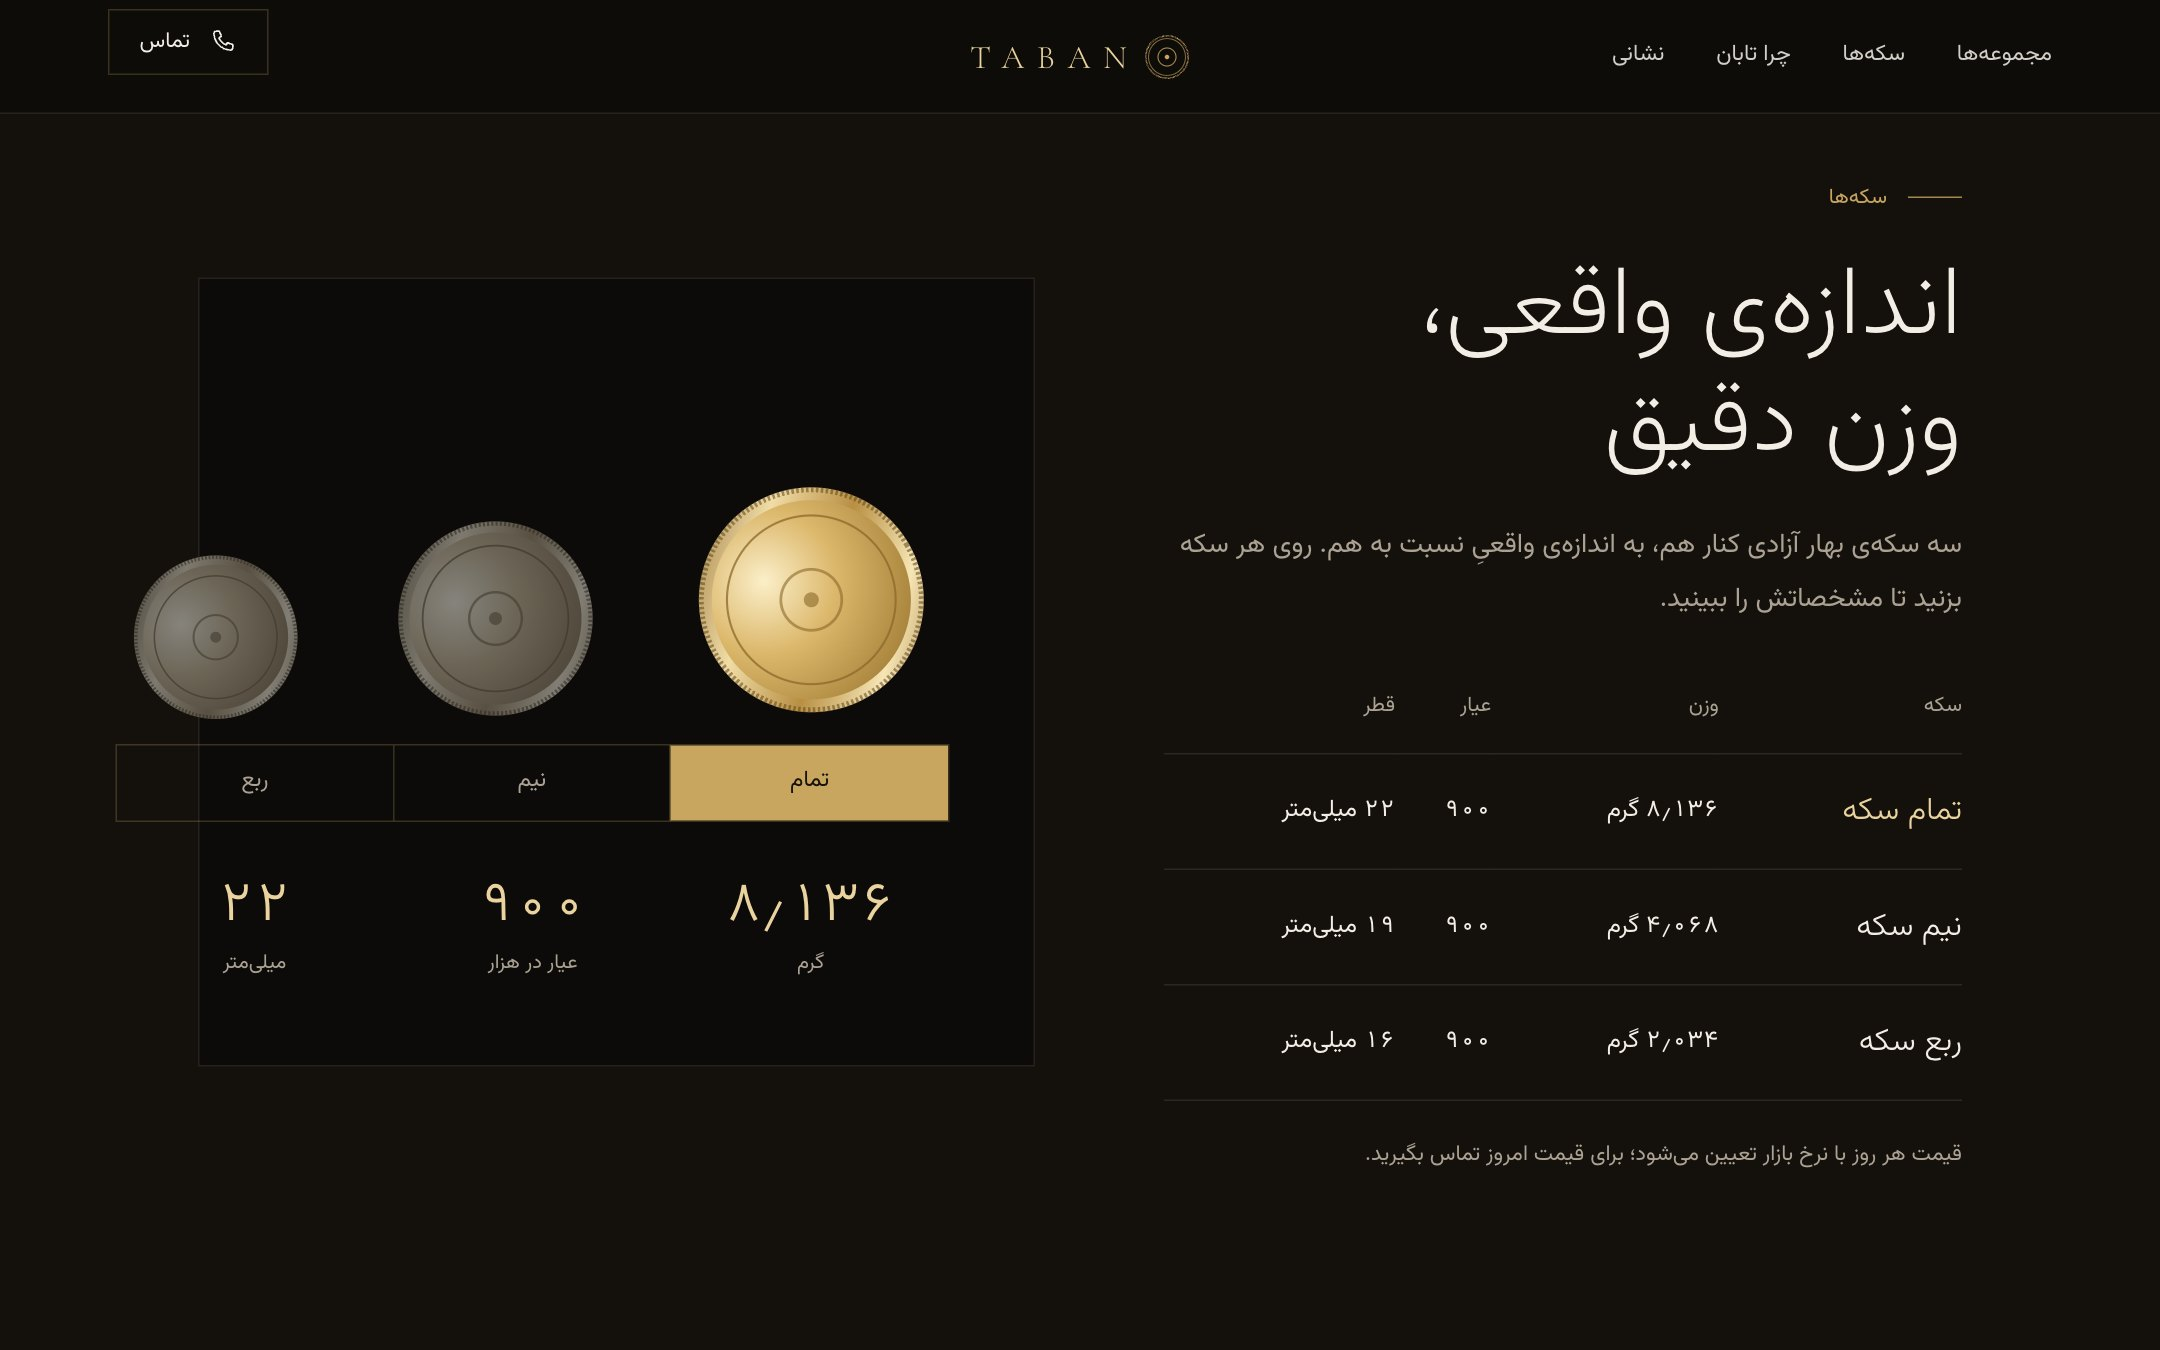
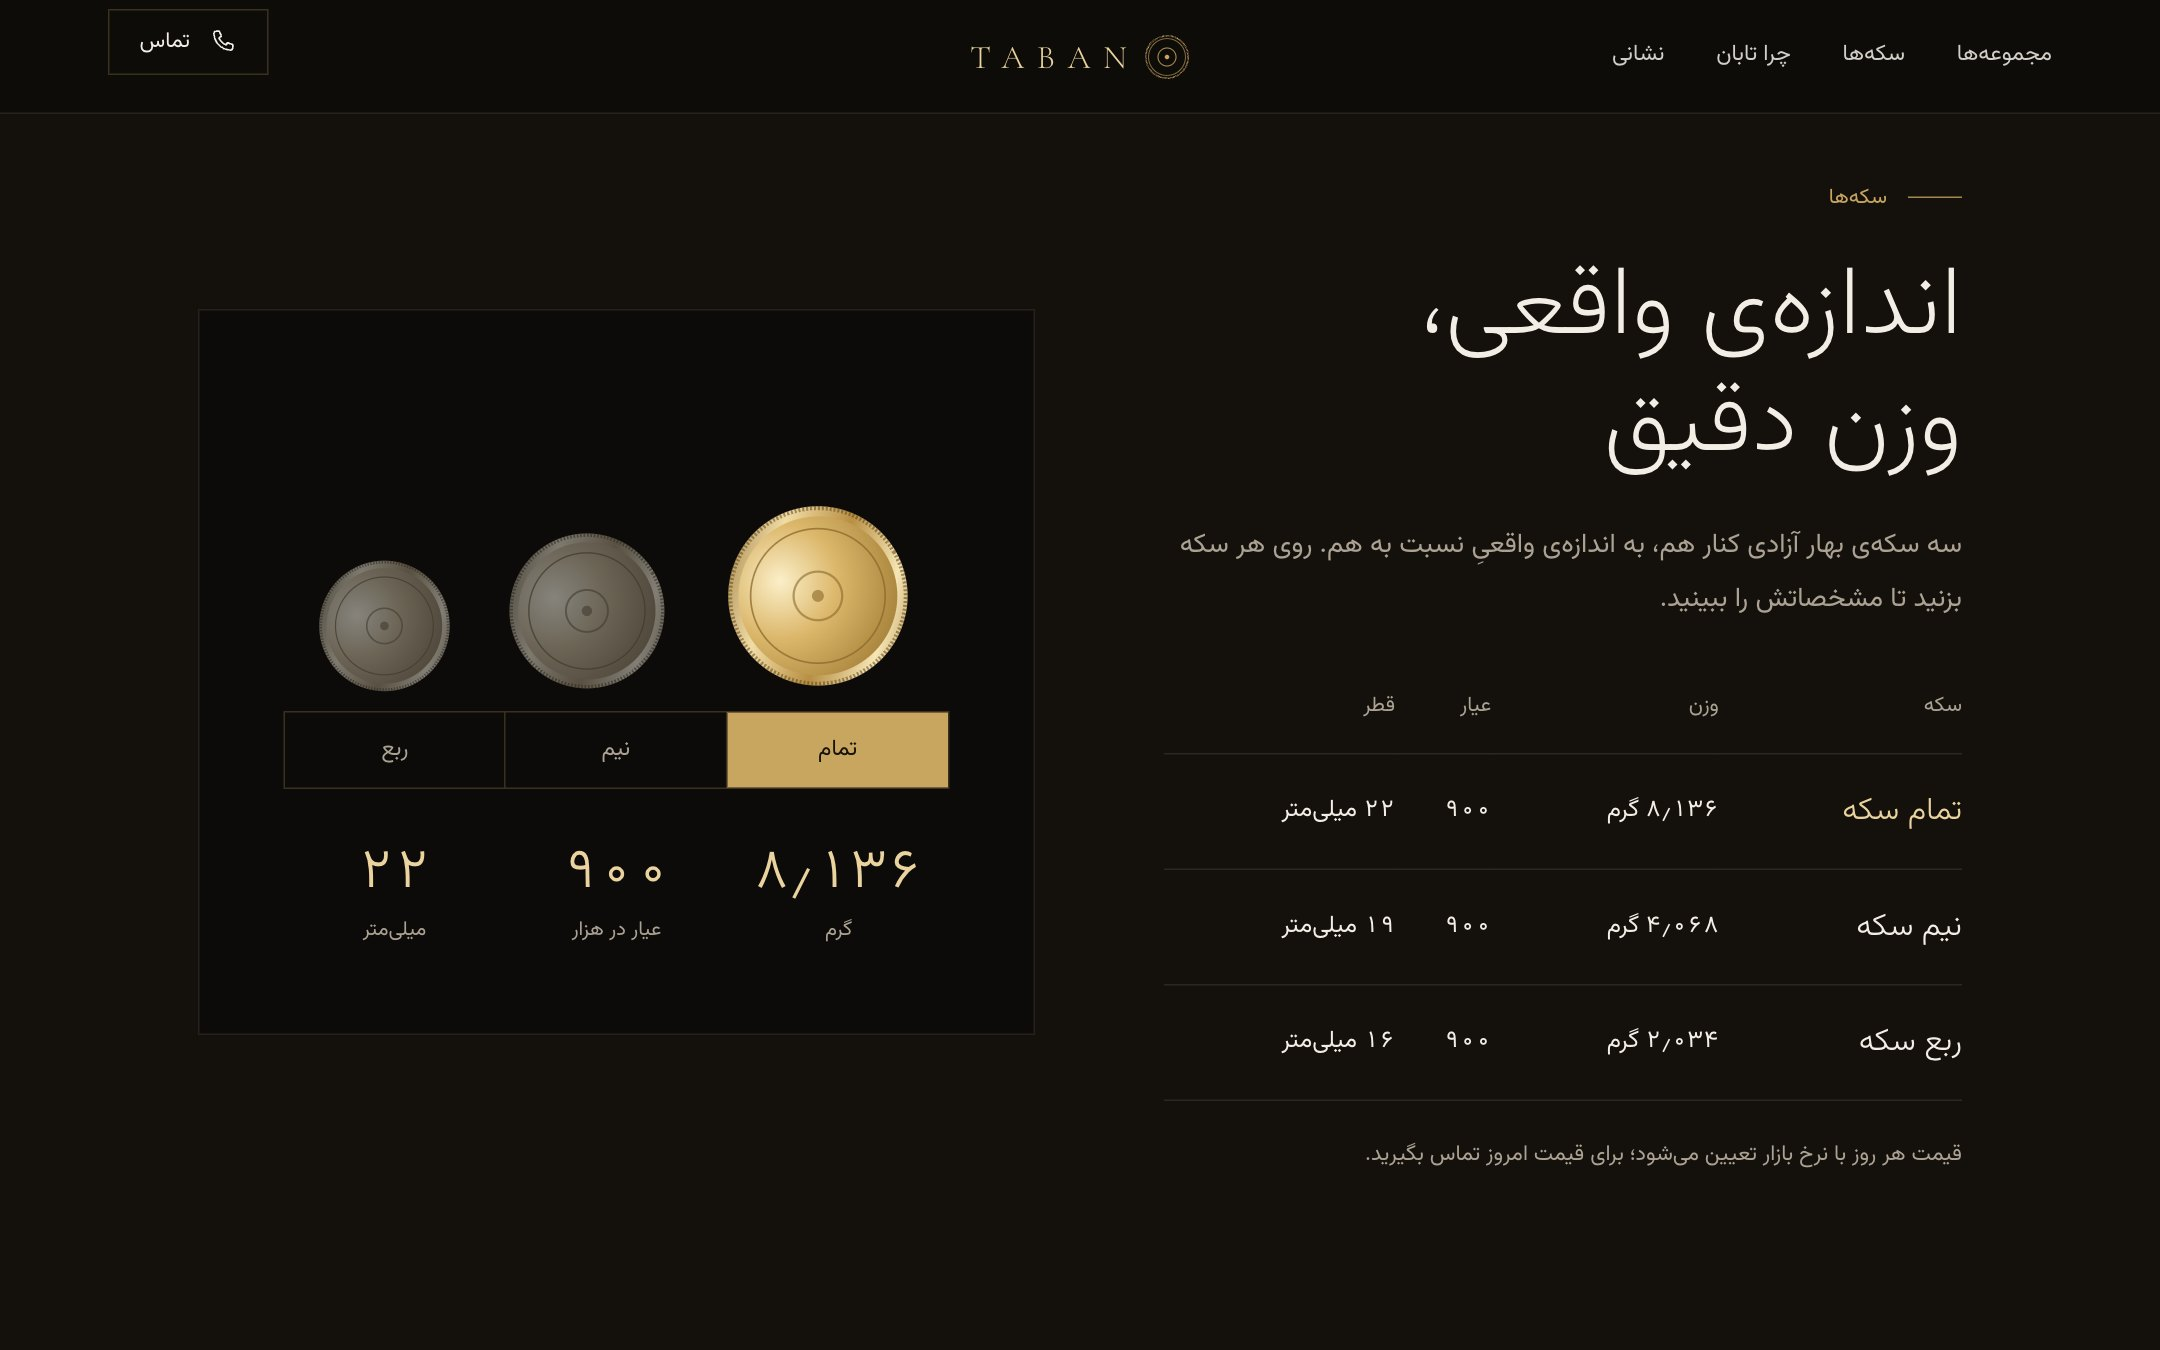
Keep the coin row inside its box at every screen width
The coins were sized from the window width (vw), so the row came out wider
than the coin box on every screen, phones included. They are now sized from
the box itself with container units, keeping vw as the fallback.
Re-took the two coin screenshots.

diff --git a/site/assets/css/taban.css b/site/assets/css/taban.css
@@ -219,10 +219,15 @@ button { font: inherit; color: inherit; }
 .spec tbody th { font-weight: 300; font-size: clamp(18px, 1.5vw, 21px); transition: color .3s var(--ease); }
 .spec tbody tr.on th { color: var(--gold-hi); }
 .coins-note { margin-top: 22px; color: var(--muted); font-size: 14.5px; }
-.stage { position: relative; background: var(--bg); border: 1px solid var(--line-soft); padding: clamp(28px, 4vw, 56px); display: grid; gap: 34px; }
-.tray { display: flex; align-items: flex-end; justify-content: center; gap: clamp(18px, 3vw, 40px); min-height: clamp(150px, 16vw, 220px); }
+/* the coins are sized to the stage (cqi), not the window, so the row always fits inside the box; the vw values are the fallback for browsers without container units */
+.stage { position: relative; background: var(--bg); border: 1px solid var(--line-soft); padding: clamp(28px, 4vw, 56px); display: grid; gap: 34px; container-type: inline-size; }
+.tray {
+  display: flex; align-items: flex-end; justify-content: center;
+  gap: clamp(18px, 3vw, 40px); gap: clamp(12px, 4cqi, 40px);
+  min-height: clamp(150px, 16vw, 220px); min-height: clamp(110px, 40cqi, 200px);
+}
 .coin-btn {
-  --d: 22; width: calc(var(--d) * clamp(5.2px, .58vw, 9px)); aspect-ratio: 1; padding: 0; border: 0; border-radius: 50%;
+  --d: 22; width: calc(var(--d) * clamp(5.2px, .58vw, 9px)); width: calc(var(--d) * clamp(3.5px, 1.5cqi, 9px)); aspect-ratio: 1; padding: 0; border: 0; border-radius: 50%;
   background: none; cursor: pointer; transition: transform .6s var(--ease), filter .6s var(--ease); -webkit-tap-highlight-color: transparent; touch-action: manipulation;
 }
 .coin-btn svg { width: 100%; height: 100%; }
